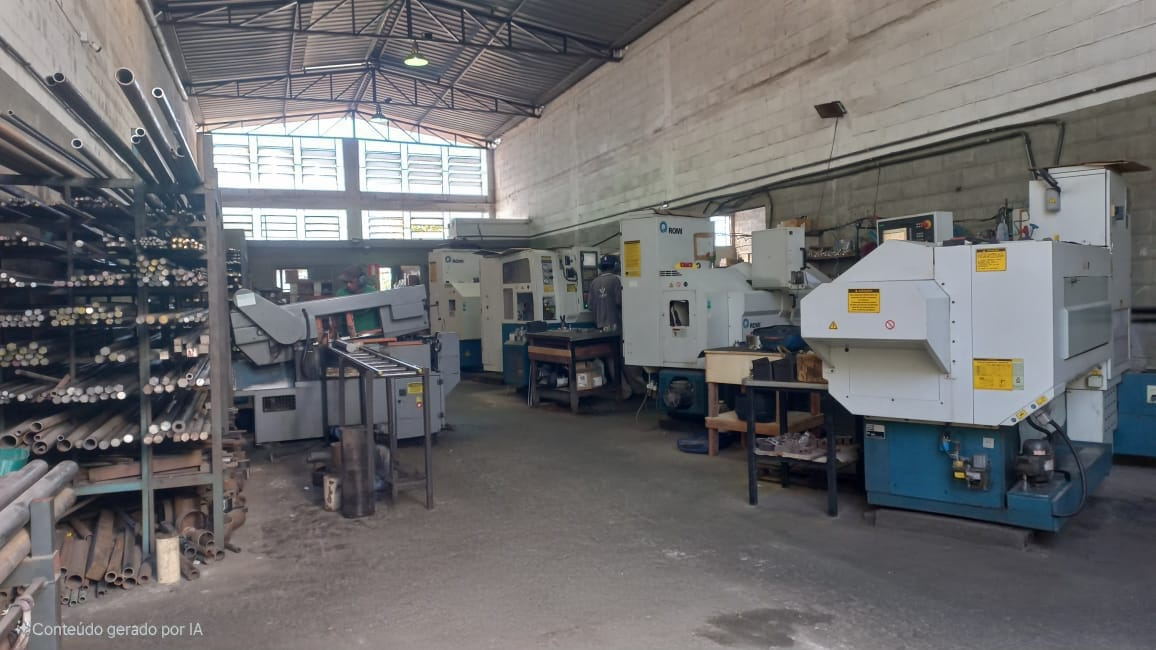
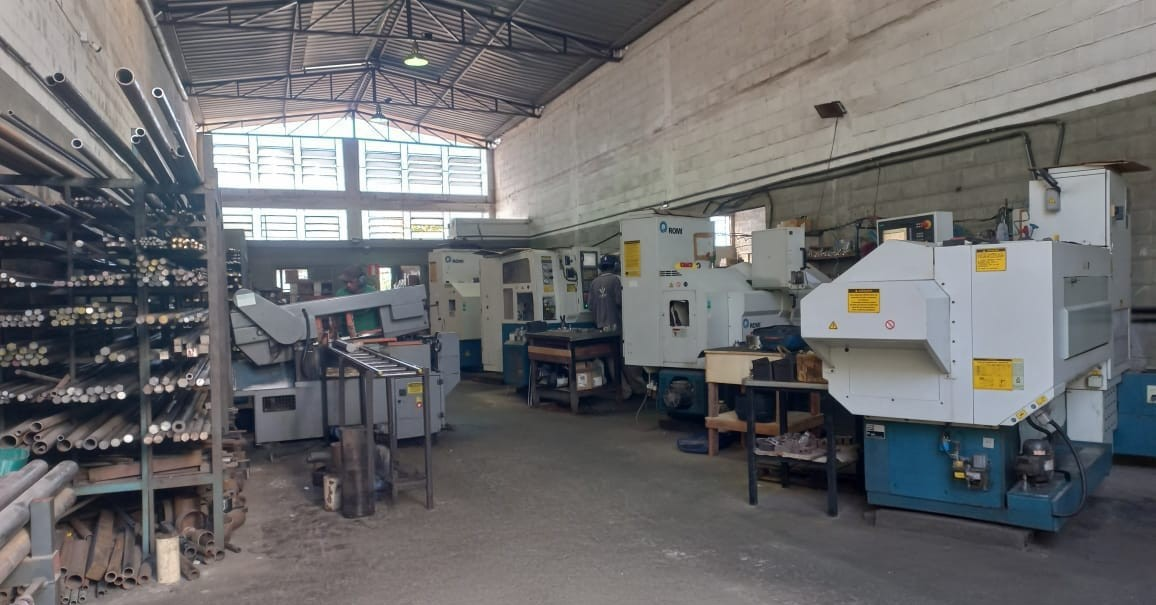
Remoçõ links produtos, e retirada de IA da imagem do quem somos

diff --git a/index.html b/index.html
@@ -267,7 +267,7 @@ Mas nossa expertise técnica vai além da qualidade dos nossos produtos. A Hidra
                 </div>
                 <div class="thumbnail-classic-caption">
                   <div class="thumbnail-classic-title-wrap"><a class="icon fl-bigmug-line-zoom60" href="images/Flange1.jpg" data-lightgallery="item"><img src="images/Flange1.jpg"  loading="lazy" alt="" width="420" height="350"/></a>
-                    <h5 class="thumbnail-classic-title"><a href="#">Flange</a></h5>
+                    <h5 class="thumbnail-classic-title">Flange</h5>
                   </div>
                   <!-- <p class="thumbnail-classic-text">We work hard on every app to deliver top-notch features with great UI that you won’t find anywhere else.</p> -->
                 </div>
@@ -280,7 +280,7 @@ Mas nossa expertise técnica vai além da qualidade dos nossos produtos. A Hidra
                 </div>
                 <div class="thumbnail-classic-caption">
                   <div class="thumbnail-classic-title-wrap"><a class="icon fl-bigmug-line-zoom60" href="images/Flange 2.jpg" data-lightgallery="item"><img src="images/Flange 2.jpg" alt="" width="300" height="240"/></a>
-                    <h5 class="thumbnail-classic-title"><a href="#">Flange</a></h5>
+                    <h5 class="thumbnail-classic-title">Flange</h5>
                   </div>
                   <!-- <p class="thumbnail-classic-text">We work hard on every app to deliver top-notch features with great UI that you won’t find anywhere else.</p> -->
                 </div>
@@ -293,7 +293,7 @@ Mas nossa expertise técnica vai além da qualidade dos nossos produtos. A Hidra
                 </div>
                 <div class="thumbnail-classic-caption">
                   <div class="thumbnail-classic-title-wrap"><a class="icon fl-bigmug-line-zoom60" href="images/Terminal01.jpg" data-lightgallery="item"><img src="images/Terminal01.jpg" alt="" width="420" height="350"/></a>
-                    <h5 class="thumbnail-classic-title"><a href="#">Terminal</a></h5>
+                    <h5 class="thumbnail-classic-title">Terminal</a></h5>
                   </div>
                  
                 </div>
@@ -306,7 +306,7 @@ Mas nossa expertise técnica vai além da qualidade dos nossos produtos. A Hidra
                 </div>
                 <div class="thumbnail-classic-caption">
                   <div class="thumbnail-classic-title-wrap"><a class="icon fl-bigmug-line-zoom60" href="images/Adaptador2.jpg" data-lightgallery="item"><img src="images/Adaptador2.jpg" alt="" width="100" height="350"/></a>
-                    <h5 class="thumbnail-classic-title"><a href="#">Adaptador</a></h5>
+                    <h5 class="thumbnail-classic-title">Adaptador</h5>
                   </div>
                   <!-- <p class="thumbnail-classic-text">We work hard on every app to deliver top-notch features with great UI that you won’t find anywhere else.</p> -->
                 </div>
@@ -319,7 +319,7 @@ Mas nossa expertise técnica vai além da qualidade dos nossos produtos. A Hidra
                 </div>
                 <div class="thumbnail-classic-caption">
                   <div class="thumbnail-classic-title-wrap"><a class="icon fl-bigmug-line-zoom60" href="images/Conexão1.jpg" data-lightgallery="item"><img src="images/Conexão1.jpg" alt="" width="420" height="350"/></a>
-                    <h5 class="thumbnail-classic-title"><a href="#">Conexão</a></h5>
+                    <h5 class="thumbnail-classic-title">Conexão</h5>
                   </div>
                   <!-- <p class="thumbnail-classic-text">We work hard on every app to deliver top-notch features with great UI that you won’t find anywhere else.</p> -->
                 </div>
@@ -332,7 +332,7 @@ Mas nossa expertise técnica vai além da qualidade dos nossos produtos. A Hidra
                 </div>
                 <div class="thumbnail-classic-caption">
                   <div class="thumbnail-classic-title-wrap"><a class="icon fl-bigmug-line-zoom60" href="images/Conexão2.jpg" data-lightgallery="item"><img src="images/Conexão2.jpg" alt="" width="420" height="350"/></a>
-                    <h5 class="thumbnail-classic-title"><a href="#">Conexão</a></h5>
+                    <h5 class="thumbnail-classic-title">Conexão</h5>
                   </div>
                   <!-- <p class="thumbnail-classic-text">We work hard on every app to deliver top-notch features with great UI that you won’t find anywhere else.</p> -->
                 </div>
@@ -345,7 +345,7 @@ Mas nossa expertise técnica vai além da qualidade dos nossos produtos. A Hidra
                 </div>
                 <div class="thumbnail-classic-caption">
                   <div class="thumbnail-classic-title-wrap"><a class="icon fl-bigmug-line-zoom60" href="images/Adaptador1.jpg" data-lightgallery="item"><img src="images/Adaptador1.jpg" alt="" width="420" height="350"/></a>
-                    <h5 class="thumbnail-classic-title"><a href="#">Adaptador</a></h5>
+                    <h5 class="thumbnail-classic-title">Adaptador</h5>
                   </div>
                   <!-- <p class="thumbnail-classic-text">We work hard on every app to deliver top-notch features with great UI that you won’t find anywhere else.</p> -->
                 </div>
@@ -358,7 +358,7 @@ Mas nossa expertise técnica vai além da qualidade dos nossos produtos. A Hidra
                 </div>
                 <div class="thumbnail-classic-caption">
                   <div class="thumbnail-classic-title-wrap"><a class="icon fl-bigmug-line-zoom60" href="images/Flange 3.jpg" data-lightgallery="item"><img src="images/Flange 3.jpg" alt="" width="420" height="350"/></a>
-                    <h5 class="thumbnail-classic-title"><a href="#">Flange</a></h5>
+                    <h5 class="thumbnail-classic-title">Flange</h5>
                   </div>
                   <!-- <p class="thumbnail-classic-text">We work hard on every app to deliver top-notch features with great UI that you won’t find anywhere else.</p> -->
                 </div>
@@ -371,7 +371,7 @@ Mas nossa expertise técnica vai além da qualidade dos nossos produtos. A Hidra
                 </div>
                 <div class="thumbnail-classic-caption">
                   <div class="thumbnail-classic-title-wrap"><a class="icon fl-bigmug-line-zoom60" href="images/Adaptador3.jpg" data-lightgallery="item"><img src="images/Adaptador3.jpg" alt="" width="420" height="350"/></a>
-                    <h5 class="thumbnail-classic-title"><a href="#">Adaptador</a></h5>
+                    <h5 class="thumbnail-classic-title">Adaptador</h5>
                   </div>
                   <!-- <p class="thumbnail-classic-text">We work hard on every app to deliver top-notch features with great UI that you won’t find anywhere else.</p> -->
                 </div>
@@ -384,7 +384,7 @@ Mas nossa expertise técnica vai além da qualidade dos nossos produtos. A Hidra
                 </div>
                 <div class="thumbnail-classic-caption">
                   <div class="thumbnail-classic-title-wrap"><a class="icon fl-bigmug-line-zoom60" href="images/Conexão3.jpg" data-lightgallery="item"><img src="images/Conexão3.jpg" alt="" width="420" height="350"/></a>
-                    <h5 class="thumbnail-classic-title"><a href="#">Conexão</a></h5>
+                    <h5 class="thumbnail-classic-title">Conexão</h5>
                   </div>
                   <!-- <p class="thumbnail-classic-text">We work hard on every app to deliver top-notch features with great UI that you won’t find anywhere else.</p> -->
                 </div>
@@ -397,7 +397,7 @@ Mas nossa expertise técnica vai além da qualidade dos nossos produtos. A Hidra
                 </div>
                 <div class="thumbnail-classic-caption">
                   <div class="thumbnail-classic-title-wrap"><a class="icon fl-bigmug-line-zoom60" href="images/Flange 4.jpg" data-lightgallery="item"><img src="images/Flange 4.jpg" alt="" width="420" height="350"/></a>
-                    <h5 class="thumbnail-classic-title"><a href="#">Flange</a></h5>
+                    <h5 class="thumbnail-classic-title">Flange</h5>
                   </div>
                   <!-- <p class="thumbnail-classic-text">We work hard on every app to deliver top-notch features with great UI that you won’t find anywhere else.</p> -->
                 </div>

diff --git a/css/style.css b/css/style.css
@@ -20370,6 +20370,10 @@ disabled look for disabled choices in the results dropdown
     z-index: 1000;
 }
 
+.btn-whatsapp:visited{
+	color: #fff;
+}
+
 .fa-whatsapp {
     margin-top: 16px;	
 }
